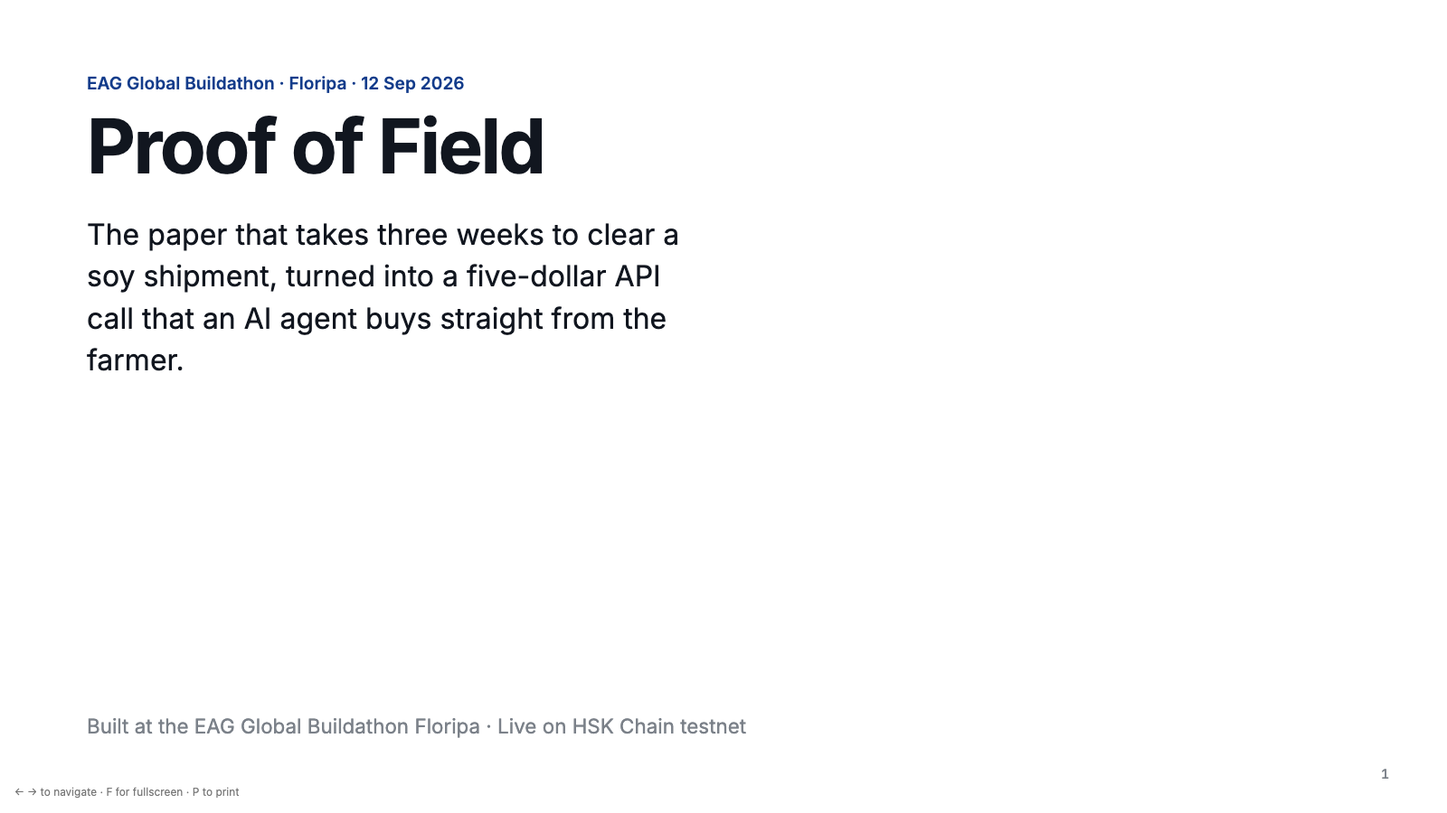
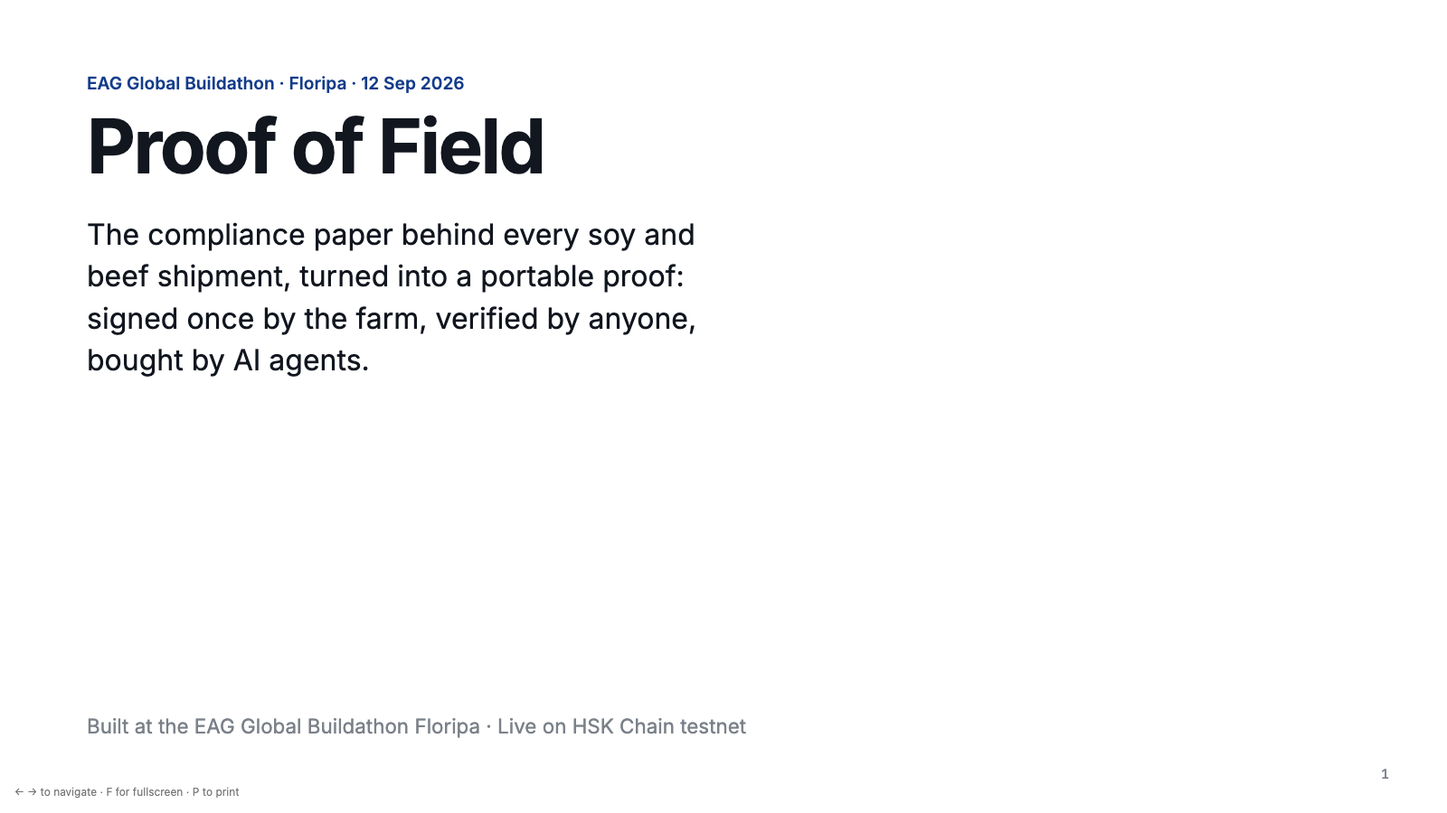
Protected areas (indigenous lands, conservation units) in the check and attestation; portable-proof framing; adoption path slide

Changed region(s): [[0.0625, 0.28, 0.5, 0.4044], [0.0625, 0.4356, 0.25, 0.4667]]

diff --git a/docs/slides/index.html b/docs/slides/index.html
@@ -75,7 +75,7 @@
 <section class="slide on">
   <div class="kicker">EAG Global Buildathon · Floripa · 12 Sep 2026</div>
   <h1>Proof of Field</h1>
-  <p class="lead" style="margin-top:2vw">The paper that takes three weeks to clear a soy shipment, turned into a five-dollar API call that an AI agent buys straight from the farmer.</p>
+  <p class="lead" style="margin-top:2vw">The compliance paper behind every soy and beef shipment, turned into a portable proof: signed once by the farm, verified by anyone, bought by AI agents.</p>
   <p class="sub">Built at the EAG Global Buildathon Floripa · Live on HSK Chain testnet</p>
   <span class="n">1</span>
 </section>
@@ -121,18 +121,18 @@
   <div class="tl">
     <div class="lbl ok">Now</div>
     <div class="chain">
-      <div class="node ok"><i>farmer's machine</i><b>Farmer agent checks</b><p>Intersects the field with INPE/PRODES, official data, in seconds. Map never leaves the farm.</p></div>
+      <div class="node ok"><i>farmer's machine</i><b>Farmer agent checks</b><p>Intersects the property with INPE/PRODES, indigenous lands and conservation units, in seconds. Map never leaves the farm.</p></div>
       <div class="node ok"><i>farmer's machine</i><b>Signs &amp; anchors</b><p>EIP-712 attestation. Only its hash goes on-chain. Proof is now for sale at a price the farmer sets.</p></div>
       <div class="node ai"><i>trader's machine</i><b>AI buyer agent decides</b><p>One sentence from the operator. Lists proofs, checks its budget, buys what fits the rule, refuses what doesn't.</p></div>
       <div class="node ai"><i>trader's machine</i><b>Pays, verifies, reports</b><p>HTTP 402 → USDT → proof. Verifies signature + registry itself. Writes the dossier.</p></div>
     </div>
   </div>
   <div class="stat ok">
-    <div><b>~2 minutes</b><span>per lot, unattended</span></div>
-    <div><b>farmer gets paid</b><span>the moment his data is used</span></div>
-    <div><b>zero copies</b><span>of the polygon leave the farm</span></div>
+    <div><b>signed once</b><span>verified by every buyer, bank and importer</span></div>
+    <div><b>~2 minutes</b><span>per shipment, unattended</span></div>
+    <div><b>zero copies</b><span>of the farm map leave the farm; the farm is paid per use</span></div>
   </div>
-  <p class="note">Same official data, same check. What changed: who runs it, who owns it, who gets paid, and that anyone can verify the result.</p>
+  <p class="note">Same official data, same check. What changed: the proof is portable. One signature, any number of buyers, no repeated paperwork.</p>
   <span class="n">4</span>
 </section>
 
@@ -184,7 +184,7 @@
 <section class="slide">
   <h2>Under the hood</h2>
   <div class="flow">
-    <div class="step priv"><i>farmer · private</i><b>Field ∩ PRODES</b><p>Pure geometry against INPE PRODES for Rondônia, Mato Grosso and Goiás (Amazon + Cerrado, ~103k polygons). Under a second on a laptop.</p></div>
+    <div class="step priv"><i>farmer · private</i><b>Property ∩ official layers</b><p>PRODES deforestation (RO, MT, GO, Amazon + Cerrado, ~103k polygons) + indigenous lands + conservation units. Under a second on a laptop. Next: DETER alerts, IBAMA embargoes.</p></div>
     <div class="step priv"><i>farmer · private</i><b>EIP-712 attestation</b><p>Area, ha deforested after 2020, verdict, source, timestamp. Signed by the farmer.</p></div>
     <div class="step"><i>HSK Chain · RPC by Chainstack</i><b>Anchor</b><p><code>attest(hash, fieldId)</code>. Only commitments on-chain. Revocable by the farmer.</p></div>
     <div class="step pay"><i>buyer · LLM</i><b>402 → AgentWallet.pay</b><p>x402 v1 shape. On-chain USDT transfer, replay-protected, policy-enforced.</p></div>
@@ -202,18 +202,14 @@
 
 <!-- 8 -->
 <section class="slide">
-  <div class="two">
-    <img class="shot" src="07-sale-received.png" alt="Farmer console showing a sale received" />
-    <div>
-      <h2>Built to scale: any farmer, any buyer, one registry.</h2>
-      <ul>
-        <li>Each farmer runs their own agent with their own key. A lot spans many farmers; the buyer's agent works the whole lot from one instruction.</li>
-        <li>The registry is the global index: every proof, every farmer, verifiable by any bank, importer or auditor without a middleman.</li>
-        <li><code>FieldAttestationRegistry</code>, <code>AgentWallet</code> and the x402 seller are generic: any private dataset can become a paid, verifiable proof.</li>
-      </ul>
-      <p style="margin-top:2vw">Pilot partners wanted: a trader, a bank, a farmer cooperative.<br/><span style="color:var(--primary)">github.com/Muril0zz/proof-of-field</span></p>
-    </div>
+  <h2>Adoption path: where the pain is sharpest first, traders last.</h2>
+  <div class="markets">
+    <div class="mkt" style="background:var(--ok-soft);border-color:transparent"><i>1 · cooperatives</i><b>Hundreds of members, one compliance desk</b><p>A co-op answers for every member farm, to every buyer, every season. Today: spreadsheets and e-mail. One farmer agent per member, one proof per property, and the co-op's paperwork collapses.</p></div>
+    <div class="mkt" style="background:var(--primary-soft);border-color:transparent"><i>2 · banks &amp; insurers</i><b>Need the proof to lend, have no field team</b><p>Rural credit requires deforestation-free evidence. Banks buy the same proof the trader buys, verify it on-chain, and stop paying per-farm vendors.</p></div>
+    <div class="mkt"><i>3 · traders</i><b>The final target</b><p>Once proofs already circulate among their suppliers, the trader's compliance desk plugs in a buyer agent and clears shipments in minutes instead of weeks.</p></div>
   </div>
+  <p class="lead" style="margin-top:1.8vw;font-size:1.6vw">Built to scale: every farm runs its own agent, every buyer its own; one public registry; contracts and agents generic enough for any private dataset sold as a proof.</p>
+  <p class="note">Pilot partners wanted: a cooperative, a bank, a trader · github.com/Muril0zz/proof-of-field</p>
   <span class="n">8</span>
 </section>
 

diff --git a/packages/core/src/prodes.ts b/packages/core/src/prodes.ts
@@ -2,22 +2,35 @@ import * as turf from '@turf/turf';
 import type { Feature, FeatureCollection, Polygon, MultiPolygon } from 'geojson';
 
 export interface DeforestationHit { year: number; areaHa: number; imageDate?: string; uuid?: string }
+export type ProtectedKind = 'indigenous' | 'conservation_strict' | 'conservation_sustainable';
+export interface ProtectedHit { kind: ProtectedKind; name: string; areaHa: number; blocking: boolean }
 export interface Coverage { bbox: [number, number, number, number]; covered: boolean; regions?: string[] }
 
 /** A PRODES dataset with a per-feature bbox index and the region polygons it covers. */
+export interface ProtectedArea { feature: Feature; bbox: [number, number, number, number]; kind: ProtectedKind; name: string }
 export interface ProdesIndex {
   features: Feature[];
   bboxes: [number, number, number, number][];
+  protected: ProtectedArea[];
   regions: Feature[];            // polygons (e.g. state × biome) the data covers
   regionNames: string[];
   extent: [number, number, number, number];
 }
-export function buildProdesIndex(collections: FeatureCollection[], regions: FeatureCollection | null): ProdesIndex {
+export function buildProdesIndex(collections: FeatureCollection[], regions: FeatureCollection | null, protectedLayers: { kind: 'indigenous' | 'conservation'; collection: FeatureCollection }[] = []): ProdesIndex {
   const features: Feature[] = []; const bboxes: [number, number, number, number][] = [];
   for (const c of collections) for (const f of c.features) { features.push(f); bboxes.push(turf.bbox(f as any) as any); }
+  const prot: ProtectedArea[] = [];
+  for (const { kind, collection } of protectedLayers) for (const f of collection.features) {
+    const pr = (f.properties as any) || {};
+    if (kind === 'indigenous') prot.push({ feature: f, bbox: turf.bbox(f as any) as any, kind: 'indigenous', name: `TI ${pr.terrai_nom ?? pr.nome ?? '?'}` });
+    else {
+      const strict = String(pr.grupo ?? '').toUpperCase().startsWith('P'); // PI = proteção integral; US = uso sustentável
+      prot.push({ feature: f, bbox: turf.bbox(f as any) as any, kind: strict ? 'conservation_strict' : 'conservation_sustainable', name: `${pr.categoria ?? 'UC'} ${pr.nome ?? '?'}` });
+    }
+  }
   const regionFeatures = regions?.features ?? [];
   const extent = features.length ? (turf.bbox(turf.featureCollection(features as any)) as any) : [0, 0, 0, 0];
-  return { features, bboxes, regions: regionFeatures, regionNames: regionFeatures.map((r) => { const pr = (r.properties as any) || {}; return String(pr.label ?? pr.nome ?? pr.name ?? pr.state ?? ''); }), extent };
+  return { features, bboxes, protected: prot, regions: regionFeatures, regionNames: regionFeatures.map((r) => { const pr = (r.properties as any) || {}; return String(pr.label ?? pr.nome ?? pr.name ?? pr.state ?? ''); }), extent };
 }
 /** Is the field inside the loaded coverage? With region polygons: fully inside their union. Without: inside the data extent. */
 export function coverageOf(field: Feature<Polygon | MultiPolygon>, idx: ProdesIndex): Coverage {
@@ -45,6 +58,9 @@ export function coverageOf(field: Feature<Polygon | MultiPolygon>, idx: ProdesIn
 }
 export interface DeforestationReport {
   coverage: Coverage;
+  protectedHits: ProtectedHit[];   // overlaps with indigenous lands / conservation units
+  protectedBlockingHa: number;     // ha inside indigenous land or strict-protection units (fails compliance)
+  protectedWarningHa: number;      // ha inside sustainable-use units (APA etc.; farming allowed, flagged)
   areaHa: number;
   deforestedHa: number;          // after baseline (year > baselineYear)
   baselineYear: number;
@@ -67,7 +83,7 @@ export function checkDeforestation(
   toleranceHa = 0,
 ): DeforestationReport {
   const t0 = Date.now();
-  const idx: ProdesIndex = 'bboxes' in prodes ? prodes : buildProdesIndex([prodes], null);
+  const idx: ProdesIndex = 'bboxes' in prodes ? prodes : buildProdesIndex([prodes], null, []);
   const areaHa = turf.area(field) / 1e4;
   const bbox = turf.bbox(field);
   // Coverage: outside the loaded data, "no hits" would mean "no data", not "no deforestation" — so we refuse to conclude.
@@ -94,10 +110,26 @@ export function checkDeforestation(
     inters.push(inter);
   }
   const deforestedHa = hits.reduce((s, h) => s + h.areaHa, 0);
+  // Protected areas: indigenous lands and strict-protection units block; sustainable-use units (APA…) only warn.
+  const protectedHits: ProtectedHit[] = [];
+  for (const pa of idx.protected) {
+    const b = pa.bbox;
+    if (b[0] > bbox[2] || b[2] < bbox[0] || b[1] > bbox[3] || b[3] < bbox[1]) continue;
+    // Cheap rejection before the (expensive) polygon intersection with large protected-area geometries.
+    try { if (turf.booleanDisjoint(field as any, pa.feature as any)) continue; } catch { /* fall through */ }
+    let inter: Feature | null = null;
+    try { inter = turf.intersect(turf.featureCollection([field as any, pa.feature as any])); } catch { continue; }
+    if (!inter) continue;
+    const ha = turf.area(inter) / 1e4;
+    if (ha < 0.01) continue;
+    protectedHits.push({ kind: pa.kind, name: pa.name, areaHa: ha, blocking: pa.kind !== 'conservation_sustainable' });
+  }
+  const protectedBlockingHa = protectedHits.filter((h) => h.blocking).reduce((s, h) => s + h.areaHa, 0);
+  const protectedWarningHa = protectedHits.filter((h) => !h.blocking).reduce((s, h) => s + h.areaHa, 0);
   return {
-    coverage,
+    coverage, protectedHits, protectedBlockingHa, protectedWarningHa,
     areaHa, deforestedHa, baselineYear, dataYear, hits, byYear,
-    compliant: coverage.covered && deforestedHa <= toleranceHa,
+    compliant: coverage.covered && deforestedHa <= toleranceHa && protectedBlockingHa === 0,
     intersections: turf.featureCollection(inters),
     ms: Date.now() - t0,
   };

diff --git a/apps/farmer-agent/src/index.ts b/apps/farmer-agent/src/index.ts
@@ -42,8 +42,10 @@ const extractFiles = fs.existsSync(PRODES_DIR) ? fs.readdirSync(PRODES_DIR).filt
 const collections = (extractFiles.length ? extractFiles : [path.join(ROOT, 'data', 'prodes_abuna_2020plus.json')]).map((f) => JSON.parse(fs.readFileSync(f, 'utf8')));
 const regionFiles = fs.existsSync(PRODES_DIR) ? fs.readdirSync(PRODES_DIR).filter((f) => /^regions_.*\.json$/.test(f)).map((f) => path.join(PRODES_DIR, f)) : [];
 const regions = regionFiles.length ? { type: 'FeatureCollection', features: regionFiles.flatMap((f) => JSON.parse(fs.readFileSync(f, 'utf8')).features) } as any : null;
-const prodes = buildProdesIndex(collections, regions);
-console.log(`[farmer] ${account.address} on ${NETWORK} (chain ${chain.id}) · registry ${dep.registry} · PRODES ${prodes.features.length.toLocaleString()} polygons from ${collections.length} extract(s)${regions ? ` · coverage: ${prodes.regionNames.join(', ')}` : ''}`);
+const protectedFiles = fs.existsSync(PRODES_DIR) ? fs.readdirSync(PRODES_DIR).filter((f) => /^protected_.*\.json$/.test(f)) : [];
+const protectedLayers = protectedFiles.map((f) => ({ kind: (f.startsWith('protected_indigenous') ? 'indigenous' : 'conservation') as 'indigenous' | 'conservation', collection: JSON.parse(fs.readFileSync(path.join(PRODES_DIR, f), 'utf8')) }));
+const prodes = buildProdesIndex(collections, regions, protectedLayers);
+console.log(`[farmer] ${account.address} on ${NETWORK} (chain ${chain.id}) · registry ${dep.registry} · PRODES ${prodes.features.length.toLocaleString()} polygons from ${collections.length} extract(s) · ${prodes.protected.length} protected areas${regions ? ` · coverage: ${prodes.regionNames.join(', ')}` : ''}`);
 
 // --- private store (stays on the farmer's machine) ---
 interface Stored {
@@ -51,7 +53,7 @@ interface Stored {
   signature: Hex;
   hash: Hex;
   txHash?: Hex;
-  report: { areaHa: number; deforestedHa: number; byYear: Record<string, number>; hits: number; dataYear: number; ms: number };
+  report: { areaHa: number; deforestedHa: number; byYear: Record<string, number>; hits: number; dataYear: number; ms: number; protectedHits?: any[]; protectedBlockingHa?: number; protectedWarningHa?: number };
   geometry: any;      // PRIVATE — never served
   intersections: any; // PRIVATE — served only to the farmer's own UI
   label?: string;
@@ -108,7 +110,7 @@ app.post('/check', async (c) => {
   const { geometry } = await c.req.json();
   const feature = { type: 'Feature', properties: {}, geometry } as any;
   const r = checkDeforestation(feature, prodes, BASELINE_YEAR);
-  return c.json({ areaHa: r.areaHa, deforestedHa: r.deforestedHa, byYear: r.byYear, hits: r.hits.length, compliant: r.compliant, dataYear: r.dataYear, ms: r.ms, intersections: r.intersections, coverage: r.coverage });
+  return c.json({ areaHa: r.areaHa, deforestedHa: r.deforestedHa, byYear: r.byYear, hits: r.hits.length, compliant: r.compliant, dataYear: r.dataYear, ms: r.ms, intersections: r.intersections, coverage: r.coverage, protectedHits: r.protectedHits, protectedBlockingHa: r.protectedBlockingHa, protectedWarningHa: r.protectedWarningHa });
 });
 
 app.post('/attest', async (c) => {
@@ -126,9 +128,10 @@ app.post('/attest', async (c) => {
     farmer: account.address,
     areaHa100: BigInt(Math.round(r.areaHa * 100)),
     deforestedHa100: BigInt(Math.round(r.deforestedHa * 100)),
+    protectedHa100: BigInt(Math.round(r.protectedBlockingHa * 100)),
     baselineYear: BigInt(BASELINE_YEAR),
     dataYear: BigInt(r.dataYear),
-    source: 'INPE/PRODES yearly_deforestation_biome (terrabrasilis WFS)',
+    source: 'INPE/PRODES yearly deforestation + FUNAI indigenous lands + ICMBio/MMA conservation units (TerraBrasilis WFS)',
     issuedAt: BigInt(Math.floor(Date.now() / 1000)),
     compliant: r.compliant,
   };
@@ -146,7 +149,7 @@ app.post('/attest', async (c) => {
   const car = carByFieldId.get(att.fieldId.toLowerCase());
   const stored: Stored = {
     attestation: att, signature, hash, txHash, car,
-    report: { areaHa: r.areaHa, deforestedHa: r.deforestedHa, byYear: r.byYear, hits: r.hits.length, dataYear: r.dataYear, ms: r.ms },
+    report: { areaHa: r.areaHa, deforestedHa: r.deforestedHa, byYear: r.byYear, hits: r.hits.length, dataYear: r.dataYear, ms: r.ms, protectedHits: r.protectedHits, protectedBlockingHa: r.protectedBlockingHa, protectedWarningHa: r.protectedWarningHa },
     geometry, intersections: r.intersections, label, createdAt: new Date().toISOString(),
   };
   store[hash.toLowerCase()] = stored; persist();

diff --git a/apps/buyer-agent/src/lib/buy.ts b/apps/buyer-agent/src/lib/buy.ts
@@ -33,14 +33,14 @@ export async function policyStatus(): Promise<PolicyStatus> {
   return { agentWallet: dep.agentWallet, remainingTodayUnits: remaining.toString(), perPaymentLimitUnits: per.toString(), dailyLimitUnits: daily.toString(), balanceUnits: bal.toString() };
 }
 
-export interface ProofListing { hash: string; label?: string; car: string | null; registered: boolean; farmer: string; farmerName: string; farmerAgent: string; knownSupplier: boolean; carConflict: boolean; compliant: boolean; areaHa: number; deforestedHa: number; byYear: Record<string, number>; priceUnits: string; proofUrl: string; anchored: boolean }
+export interface ProofListing { hash: string; label?: string; protectedHa: number; car: string | null; registered: boolean; farmer: string; farmerName: string; farmerAgent: string; knownSupplier: boolean; carConflict: boolean; compliant: boolean; areaHa: number; deforestedHa: number; byYear: Record<string, number>; priceUnits: string; proofUrl: string; anchored: boolean }
 export async function listProofs(farmerBaseUrl: string): Promise<ProofListing[]> {
   const base = farmerBaseUrl.replace(/\/$/, '');
   const [info, list] = await Promise.all([
     fetch(`${base}/`).then((r) => r.json()).catch(() => ({})) as Promise<any>,
     fetch(`${base}/attestations`).then((r) => r.json()) as Promise<any[]>,
   ]);
-  return list.map((a) => ({ hash: a.hash, label: a.label, car: a.car ?? null, registered: !!a.registered, farmer: a.farmer, farmerName: info.name || 'Farmer agent', farmerAgent: base, knownSupplier: false, carConflict: false, compliant: a.compliant, areaHa: +a.report.areaHa.toFixed(2), deforestedHa: +a.report.deforestedHa.toFixed(2), byYear: a.report.byYear, priceUnits: a.priceUnits, proofUrl: `${base}/proof/${a.hash}`, anchored: !!a.txHash }));
+  return list.map((a) => ({ hash: a.hash, label: a.label, protectedHa: +(a.report.protectedBlockingHa ?? 0).toFixed(2), car: a.car ?? null, registered: !!a.registered, farmer: a.farmer, farmerName: info.name || 'Farmer agent', farmerAgent: base, knownSupplier: false, carConflict: false, compliant: a.compliant, areaHa: +a.report.areaHa.toFixed(2), deforestedHa: +a.report.deforestedHa.toFixed(2), byYear: a.report.byYear, priceUnits: a.priceUnits, proofUrl: `${base}/proof/${a.hash}`, anchored: !!a.txHash }));
 }
 
 /** Lot = several farmer agents. Unreachable agents are reported, not fatal. */
@@ -82,7 +82,7 @@ export const silentLog: Log = { step: () => {}, ok: () => {}, info: () => {} };
 export interface BuyResult {
   ok: true; proofUrl: string; paidUnits: string; payTx: string; payTxUrl: string;
   attestationHash: string; farmer: string; anchorTx?: string; anchorTxUrl?: string; anchoredAt: string;
-  areaHa: number; deforestedHa: number; byYear: Record<string, number>; baselineYear: number; dataYear: number; source: string; issuedAt: string;
+  areaHa: number; deforestedHa: number; protectedHa: number; protectedHits: any[]; byYear: Record<string, number>; baselineYear: number; dataYear: number; source: string; issuedAt: string;
   compliant: boolean; fieldId: string; checks: string[]; car: string | null; registered: boolean;
 }
 export class BuyError extends Error { constructor(public stage: string, msg: string) { super(msg); } }
@@ -144,7 +144,7 @@ export async function buyProof(url: string, log: Log = silentLog): Promise<BuyRe
   return {
     ok: true, proofUrl: url, paidUnits: offer.maxAmountRequired, payTx, payTxUrl: explorerTx(NETWORK, payTx),
     attestationHash: h, farmer: att.farmer, anchorTx: proof.anchorTx, anchorTxUrl: proof.anchorTxUrl, anchoredAt,
-    areaHa: Number(att.areaHa100) / 100, deforestedHa: Number(att.deforestedHa100) / 100, byYear: report.byYear || {},
+    areaHa: Number(att.areaHa100) / 100, deforestedHa: Number(att.deforestedHa100) / 100, protectedHa: Number(att.protectedHa100) / 100, protectedHits: report.protectedHits || [], byYear: report.byYear || {},
     baselineYear: Number(att.baselineYear), dataYear: Number(att.dataYear), source: att.source, issuedAt: new Date(Number(att.issuedAt) * 1000).toISOString(),
     compliant: att.compliant, fieldId: att.fieldId, checks, car: carRef ?? null, registered: !!isRegistered,
   };

diff --git a/packages/core/src/attestation.ts b/packages/core/src/attestation.ts
@@ -7,6 +7,7 @@ export const ATTESTATION_TYPES = {
     { name: 'farmer', type: 'address' },
     { name: 'areaHa100', type: 'uint256' },
     { name: 'deforestedHa100', type: 'uint256' },
+    { name: 'protectedHa100', type: 'uint256' },
     { name: 'baselineYear', type: 'uint256' },
     { name: 'dataYear', type: 'uint256' },
     { name: 'source', type: 'string' },
@@ -16,7 +17,7 @@ export const ATTESTATION_TYPES = {
 } as const;
 
 export const SCHEMA_STRING =
-  'FieldAttestation(bytes32 fieldId,address farmer,uint256 areaHa100,uint256 deforestedHa100,uint256 baselineYear,uint256 dataYear,string source,uint256 issuedAt,bool compliant)';
+  'FieldAttestation(bytes32 fieldId,address farmer,uint256 areaHa100,uint256 deforestedHa100,uint256 protectedHa100,uint256 baselineYear,uint256 dataYear,string source,uint256 issuedAt,bool compliant)';
 export const SCHEMA_ID: Hex = keccak256(stringToHex(SCHEMA_STRING));
 
 export interface FieldAttestation {
@@ -24,6 +25,7 @@ export interface FieldAttestation {
   farmer: Address;
   areaHa100: bigint;
   deforestedHa100: bigint;
+  protectedHa100: bigint;   // ha inside indigenous land / strict conservation units
   baselineYear: bigint;
   dataYear: bigint;
   source: string;
@@ -60,8 +62,8 @@ function roundCoords(c: any): any {
 
 /** JSON-safe form (bigint → string) for transport. */
 export function serializeAttestation(a: FieldAttestation) {
-  return { ...a, areaHa100: a.areaHa100.toString(), deforestedHa100: a.deforestedHa100.toString(), baselineYear: a.baselineYear.toString(), dataYear: a.dataYear.toString(), issuedAt: a.issuedAt.toString() };
+  return { ...a, areaHa100: a.areaHa100.toString(), deforestedHa100: a.deforestedHa100.toString(), protectedHa100: a.protectedHa100.toString(), baselineYear: a.baselineYear.toString(), dataYear: a.dataYear.toString(), issuedAt: a.issuedAt.toString() };
 }
 export function deserializeAttestation(j: any): FieldAttestation {
-  return { ...j, areaHa100: BigInt(j.areaHa100), deforestedHa100: BigInt(j.deforestedHa100), baselineYear: BigInt(j.baselineYear), dataYear: BigInt(j.dataYear), issuedAt: BigInt(j.issuedAt) };
+  return { ...j, areaHa100: BigInt(j.areaHa100), deforestedHa100: BigInt(j.deforestedHa100), protectedHa100: BigInt(j.protectedHa100 ?? 0), baselineYear: BigInt(j.baselineYear), dataYear: BigInt(j.dataYear), issuedAt: BigInt(j.issuedAt) };
 }

diff --git a/apps/web/src/App.tsx b/apps/web/src/App.tsx
@@ -209,6 +209,8 @@ export function App() {
 
 function Verdict({ report, label }: { report: Report; label: string }) {
   const ok = report.compliant ?? report.deforestedHa <= 0;
+  const blocking = (report.protectedHits || []).filter((h) => h.blocking);
+  const warning = (report.protectedHits || []).filter((h) => !h.blocking);
   if (report.coverage && !report.coverage.covered) {
     return (
       <div className="verdict bad">
@@ -230,8 +232,10 @@ function Verdict({ report, label }: { report: Report; label: string }) {
               : <svg width="18" height="18" viewBox="0 0 16 16" fill="none" stroke="#fff" strokeWidth="2"><path d="M8 3v6M8 12v.5" /></svg>}
         </div>
         <div>
-          <div className="title">{ok ? 'Deforestation-free since 2020' : `${report.deforestedHa.toFixed(2)} ha deforested since 2020`}</div>
-          <div className="sub">{label} · {fmtHa(report.areaHa)} · {report.hits} PRODES polygon{report.hits === 1 ? '' : 's'} intersected · {report.ms} ms</div>
+          <div className="title">{ok ? 'Compliant: no deforestation since 2020, no protected-area overlap' : report.deforestedHa > 0 ? `${report.deforestedHa.toFixed(2)} ha deforested since 2020${blocking.length ? ' + protected-area overlap' : ''}` : `Overlaps protected area (${blocking.reduce((s, h) => s + h.areaHa, 0).toFixed(1)} ha)`}</div>
+          <div className="sub">{label} · {fmtHa(report.areaHa)} · {report.hits} PRODES polygon{report.hits === 1 ? '' : 's'} · {(report.protectedHits || []).length} protected area{(report.protectedHits || []).length === 1 ? '' : 's'} checked · {report.ms} ms</div>
+          {blocking.map((h) => <div key={h.name} className="sub" style={{ color: 'var(--bad)' }}>✕ {h.name}: {h.areaHa.toFixed(1)} ha inside</div>)}
+          {warning.map((h) => <div key={h.name} className="sub" style={{ color: 'var(--warn)' }}>△ {h.name} (sustainable use): {h.areaHa.toFixed(1)} ha, allowed, flagged</div>)}
         </div>
       </div>
       <div className="years" aria-label="Deforestation by year">

diff --git a/apps/buyer-agent/src/agent.ts b/apps/buyer-agent/src/agent.ts
@@ -112,6 +112,7 @@ Facts about your environment:
 - A proof marked NON-COMPLIANT is still a valid, verifiable proof. Whether to buy it depends on the operator's instruction (some operators want the evidence, most want to skip it).
 - Prices are what the farmer asks. You never negotiate; you decide buy or skip.
 - "knownSupplier: true" means the seller's address is allow-listed in the company's AgentWallet: the supplier was onboarded (contract, CNPJ, CAR ownership checked). The CAR registry is public, so anyone could compute a true-looking proof for someone else's farm and sign it with their own key. A seller with "knownSupplier: false" is an unknown counterparty: never buy from it (the wallet would refuse the payment anyway) and say so. "carConflict: true" means the same CAR is offered by two different keys: flag it as a likely impersonation attempt in the report.
+- Compliance also covers protected areas: "protectedHa" is hectares of the property inside indigenous lands or strict-protection conservation units (blocking). Sustainable-use units (APA) are flagged in protectedHits but do not block.
 - A proof is "registered: true" when its polygon is the farmer's official CAR property (Brazil's rural environmental registry, public). Compliance for a lot is judged on registered properties. A proof with "registered: false" is a hand-drawn sub-field: it may be useful for traceability but does NOT clear a lot on its own. Default: skip unregistered proofs and say why, unless the operator explicitly asks for sub-field proofs.
 
 How to work:

diff --git a/apps/web/src/lib/api.ts b/apps/web/src/lib/api.ts
@@ -1,4 +1,5 @@
-export interface Report { coverage?: { bbox: number[]; covered: boolean }; areaHa: number; deforestedHa: number; byYear: Record<string, number>; hits: number; dataYear: number; ms: number; compliant?: boolean; intersections?: GeoJSON.FeatureCollection }
+export interface ProtectedHit { kind: string; name: string; areaHa: number; blocking: boolean }
+export interface Report { coverage?: { bbox: number[]; covered: boolean }; protectedHits?: ProtectedHit[]; protectedBlockingHa?: number; protectedWarningHa?: number; areaHa: number; deforestedHa: number; byYear: Record<string, number>; hits: number; dataYear: number; ms: number; compliant?: boolean; intersections?: GeoJSON.FeatureCollection }
 export interface Attestation {
   hash: string; label?: string; farmer: string; compliant: boolean; report: Report;
   attestation: Record<string, string | boolean>; signature: string; txHash?: string; txUrl?: string; createdAt: string; priceUnits: string;

diff --git a/apps/buyer-agent/src/index.ts b/apps/buyer-agent/src/index.ts
@@ -39,6 +39,7 @@ const p = r!;
 console.log(pc.bold('\n📄 Proof of Field'));
 console.log(`   field commitment  ${p.fieldId}`);
 console.log(`   area              ${p.areaHa.toFixed(2)} ha`);
+console.log(`   protected overlap ${p.protectedHa.toFixed(2)} ha${p.protectedHits.length ? '  ' + p.protectedHits.map((h: any) => h.name).join(', ') : ''}`);
 console.log(`   deforested >${p.baselineYear}  ${p.deforestedHa.toFixed(2)} ha  ${Object.keys(p.byYear).length ? JSON.stringify(Object.fromEntries(Object.entries(p.byYear).map(([y, v]: any) => [y, +v.toFixed(2)]))) : ''}`);
 console.log(`   data              ${p.source} (through ${p.dataYear})`);
 console.log(`   issued            ${p.issuedAt}`);

diff --git a/docs/PITCH.md b/docs/PITCH.md
@@ -14,13 +14,13 @@
 
 **Slide 3 (0:22).** "Today it takes weeks. The farmer e-mails the entire farm map to a stranger, the trader pays a vendor per farm, and the result is a PDF nobody outside can verify. Then the next buyer asks again."
 
-**Slide 4 (0:37).** "We turned it into a five-dollar API call. Each farmer's computer runs the official check, signs it, and puts it up for sale. The trader's AI agent buys across the whole lot, pays each farmer in stablecoin, and verifies everything on-chain. Two minutes, no humans, and no farm map ever leaves a farm."
+**Slide 4 (0:37).** "We make the proof portable. Each farm's computer runs the official checks, deforestation, indigenous lands, conservation units, signs the result once, and puts it up for sale. Any buyer's AI agent picks it up, verifies it on-chain, and pays the farm per use. Two minutes per shipment, no humans, and no farm map ever leaves a farm."
 
 **Slide 5 (0:50).** "The check is SQL, we run it locally. What isn't SQL is the trade: two companies that don't trust each other, two programs paying each other, and an AI holding money it cannot misuse. Let me show you."
 
 ## 2 minute demo (happy path only)
 
-**0:00 [Console]** Click **…9C62**. Green verdict appears. → "This is a real 5,500-hectare property from Brazil's rural registry, checked against INPE's official deforestation map for Rondônia, Mato Grosso and Goiás. Clean."
+**0:00 [Console]** Click **…9C62**. Green verdict appears. → "This is a real 5,500-hectare property from Brazil's rural registry, checked against INPE's deforestation map, indigenous lands and conservation units. Clean."
 
 **0:10 [Console]** Click **Sign attestation & anchor on-chain**. Wait for the hash and tx (~5 s). → "Signed by the farmer's key. Only the hash goes to HashKey Chain. The proof is now for sale."
 
@@ -64,7 +64,9 @@ Fallback if HSK is down: run everything with `NETWORK=anvil` (identical, no expl
 - **"What stops anyone from taking a public CAR and selling a proof for someone else's farm?"** Nothing stops them from computing it; the check is public. What stops them from getting paid is the same thing that works today: the buyer only pays suppliers it has onboarded. The company allow-lists a supplier's address in its AgentWallet after contract and KYC. In the demo, Farmer C offers Farmer A's CAR with an unknown key: the agent marks it UNKNOWN and CAR-CONFLICT, refuses, and the wallet would reject the payment anyway. Next: a gov.br-signed binding "wallet X belongs to the CPF that holds CAR Y" anchored on-chain, or a zkTLS proof of the SICAR login.
 - **"Can't the farmer just draw the polygon around the deforested corner?"** Not for compliance. Compliance is judged on the **registered property** (CAR, Brazil's public rural registry), and the attestation of a registered property carries the CAR number and the hash of the *official* polygon. Any buyer can download the public CAR polygon, hash it, and see it matches `fieldId`: nothing was cut out. Hand-drawn fields are marked `registered: false`; the buyer agent skips them for compliance by default and only uses them for sub-field traceability. It did that on its own this morning: it flagged a drawn field as "no CAR reference".
 - **"What if the farmer lies in other ways?"** He can't change the INPE data, and he can't change the polygon without changing the hash. What he could do is sign with a key that isn't the property owner's. Binding the farmer key to the CAR owner (a KYC'd attestation from the registry or a bank) is the natural next step.
-- **"Is 5 USDT a real price?"** Illustrative. The mechanism is what we are showing. Today the trader pays, because the legal obligation is on the importer, per query. It could be the bank, or a subscription.
+- **"Is 5 USDT a real price? Will traders really pay farmers?"** Today traders pay a due-diligence vendor per farm and the farmer works for free. We are not selling "traders pay farmers" as the reason to adopt; the reason is a portable proof that clears a shipment in minutes and that banks and importers accept without redoing. The payment is the mechanism that lets two programs transact; who pays and how much is a business decision. Some traders already pay premiums for verified origin, so it is not alien to the sector.
+- **"Who adopts first?"** Cooperatives: one compliance desk answering for hundreds of member farms to every buyer, every season. Then banks and insurers, who need the proof to lend and have no field team. Traders last, once proofs already circulate among their suppliers.
+- **"Only deforestation?"** No: the attestation is a claim against official layers. Today: PRODES deforestation, FUNAI indigenous lands, ICMBio/MMA conservation units (strict-protection blocks, sustainable-use flags). Next: DETER real-time alerts, IBAMA embargoes; then non-geographic lists (soy moratorium, slave-labour list) once the wallet is bound to a CPF/CNPJ.
 - **"Why HSK Chain?"** EVM, cheap, a sponsor, and the target buyer side is in Asia. The contracts are chain-agnostic.
 - **"Is this real x402?"** The 402 body and `accepts[]` follow x402 v1. Settlement today is an on-chain transfer referenced by tx hash. EIP-3009 gasless settlement is the next step.
 - **"Is PRODES enough? What about a farm outside your data?"** PRODES is INPE's official annual mapping, the same first-pass source commercial due-diligence providers use. Limits: minimum mapping unit 6.25 ha, annual cadence, Amazon biome only. We load Rondônia, Mato Grosso and Goiás across the Amazon and Cerrado biomes, about 103,000 polygons since 2021, indexed in memory on the farmer's machine. If a field is not fully inside a covered state and biome the agent refuses to attest: absence of data is not absence of deforestation. Adding a state is one download. Next: DETER alerts and IBAMA embargoes.

diff --git a/README.md b/README.md
@@ -28,7 +28,7 @@ A soy or cattle buyer (trader, bank, importer) must prove the farm it buys from 
 ```
 
 1. **Farmer selects a registered property** (CAR, the public rural registry; official polygon) in the console. Each farmer runs their own agent with their own key; a lot spans many farmers.
-2. **The farmer agent** intersects it with INPE/PRODES yearly deforestation polygons (public, official, pure geometry, under a second across ~103k polygons) and signs an **EIP-712 attestation**: area, hectares deforested after the 2020 baseline, verdict, data source, timestamp.
+2. **The farmer agent** intersects it with INPE/PRODES yearly deforestation polygons, FUNAI indigenous lands and ICMBio/MMA conservation units (public, official, pure geometry, under a second across ~103k polygons) and signs an **EIP-712 attestation**: area, hectares deforested after the 2020 baseline, hectares inside blocking protected areas, verdict, data source, timestamp. Strict-protection units and indigenous lands block; sustainable-use units (APA) are flagged.
 3. Only `keccak(polygon)` and the attestation hash are **anchored on-chain**. The geometry never leaves the farmer's machine.
 4. **The buyer agent** requests the proof, gets **HTTP 402** with x402 payment requirements, pays USDT through the company's **AgentWallet** (daily / per-payment limits, allow-listed payees), retries with `X-PAYMENT`, receives the proof, and **verifies it independently**: signature → signer == on-chain anchoring farmer → not revoked.
 
